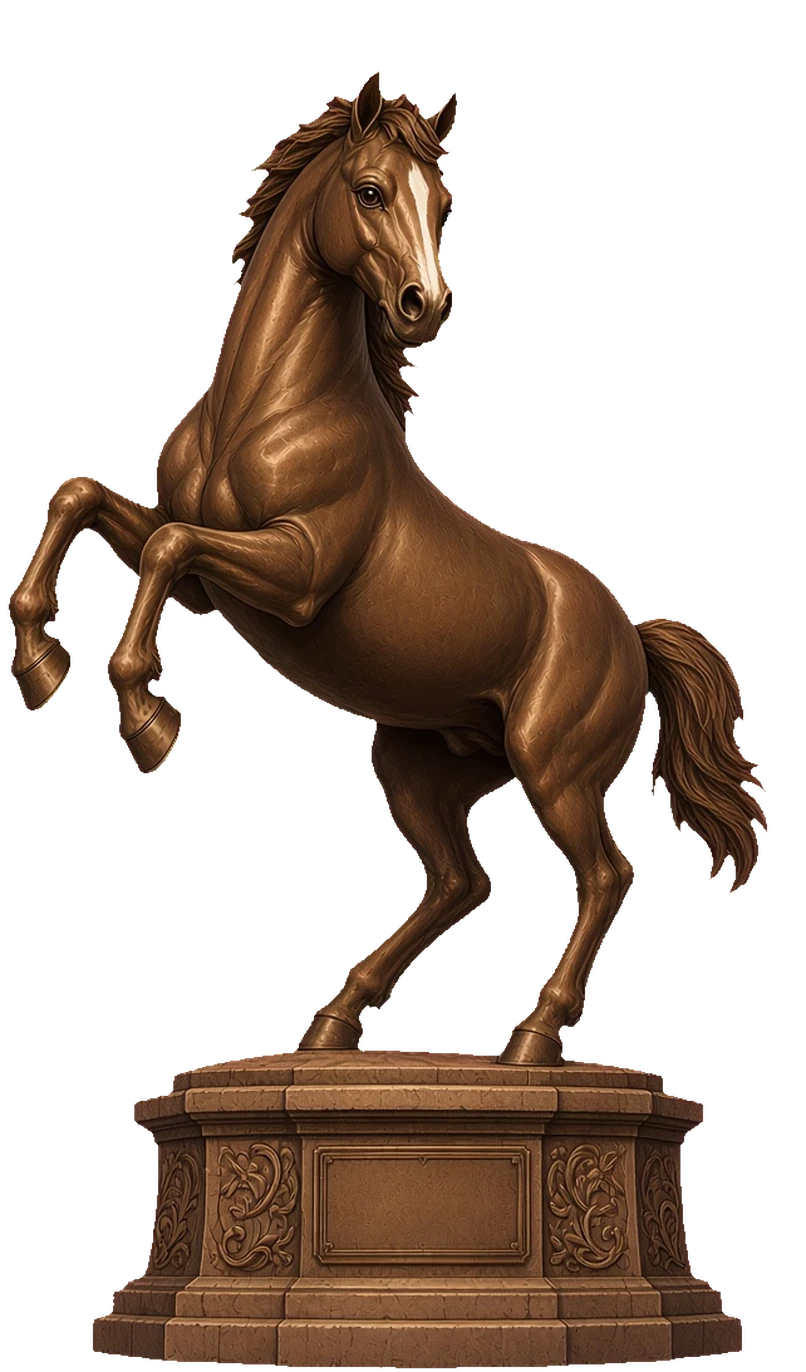
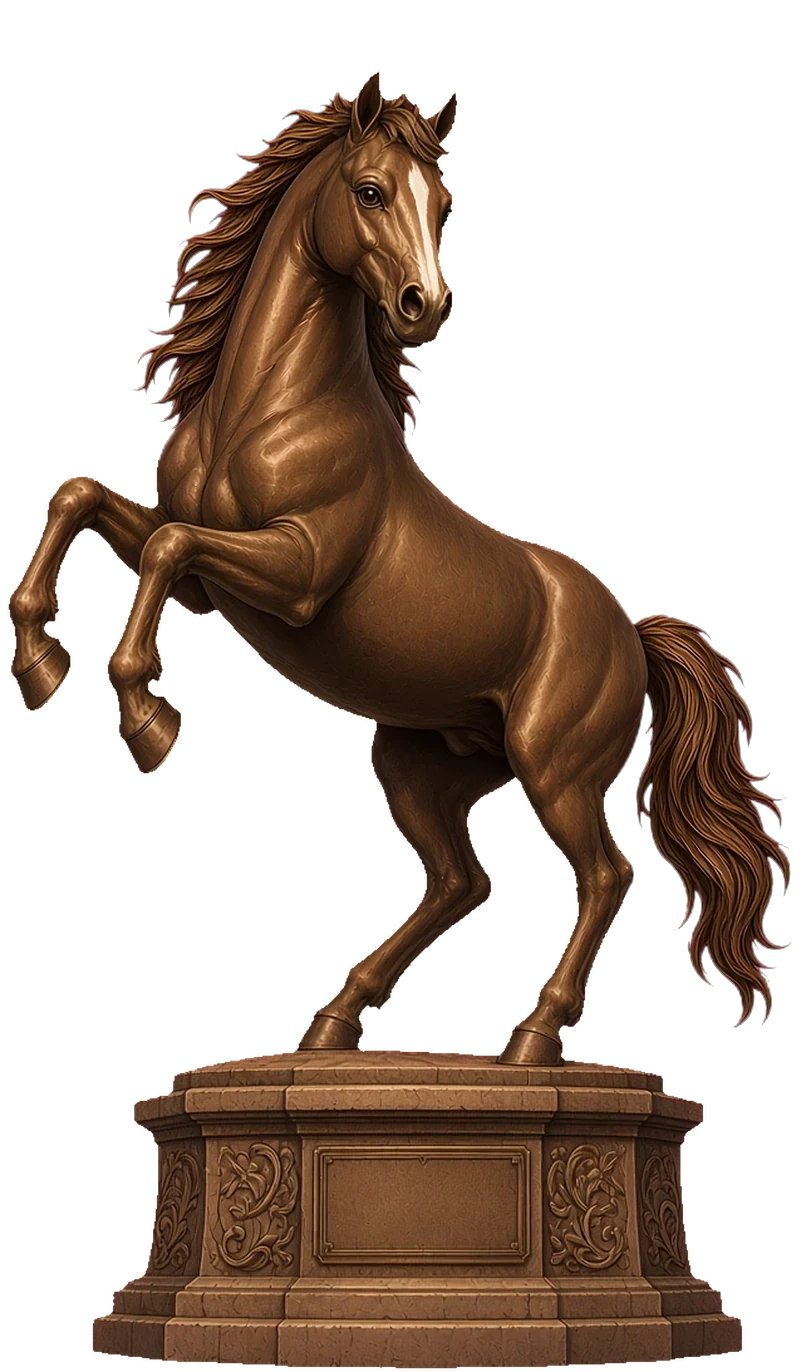
Fire Horse Plaza: longer, natural flowing mane and tail on Rowdy statue (all states)

diff --git a/fire-horse-plaza/index.html b/fire-horse-plaza/index.html
@@ -32,9 +32,9 @@
         <p class="lede">The heart of Rowdyland. Where Rowdy burns and rises in gold.</p>
         <button type="button" class="statue" id="statue" aria-label="Start the fire ceremony" aria-pressed="false">
           <span class="stack">
-            <img id="img-stone" src="art/hero-statue.webp?v=rowdy2" alt="Rowdy, a giant bronze horse statue on a stone pedestal" width="806" height="1372">
-            <img id="img-fire" src="art/hero-fire.webp?v=rowdy2" alt="" aria-hidden="true" width="806" height="1372">
-            <img id="img-gold" src="art/hero-gold.webp?v=redmane1" alt="" aria-hidden="true" width="806" height="1372">
+            <img id="img-stone" src="art/hero-statue.webp?v=mane1" alt="Rowdy, a giant bronze horse statue on a stone pedestal" width="806" height="1372">
+            <img id="img-fire" src="art/hero-fire.webp?v=mane1" alt="" aria-hidden="true" width="806" height="1372">
+            <img id="img-gold" src="art/hero-gold.webp?v=mane1" alt="" aria-hidden="true" width="806" height="1372">
           </span>
           <span class="pp-bubble" aria-hidden="true">Light the fire &#128293;</span>
         </button>
@@ -49,12 +49,12 @@
 
       <section class="panel feature right" id="when" data-time="night">
         <div class="card"><span class="tag n">Final night</span><h2>After the Sun Sets</h2><p>When the sky goes dark and the main stage goes quiet, everyone turns to the plaza.</p></div>
-        <div class="art" data-speed="-0.08"><img src="art/statue.webp?v=rowdy2" alt="Rowdy, a giant bronze horse statue rearing on a carved stone pedestal"></div>
+        <div class="art" data-speed="-0.08"><img src="art/statue.webp?v=mane1" alt="Rowdy, a giant bronze horse statue rearing on a carved stone pedestal"></div>
       </section>
 
       <section class="panel feature left" id="ceremony" data-time="night">
         <div class="card"><span class="tag n">Final night</span><h2>The Fire Ceremony</h2><p>Throw what you are done carrying into the fire and walk out new. Rowdy comes out gold, and so do we.</p></div>
-        <div class="art" data-speed="-0.08"><img src="art/fire.webp?v=rowdy2" alt="The bronze horse statue Rowdy engulfed in flames rising into the sky"></div>
+        <div class="art" data-speed="-0.08"><img src="art/fire.webp?v=mane1" alt="The bronze horse statue Rowdy engulfed in flames rising into the sky"></div>
       </section>
 
       <section class="panel feature right" id="anthem">
@@ -64,11 +64,11 @@
 
       <section class="panel feature left" id="gold" data-time="night">
         <div class="card"><span class="tag n">The finale</span><h2>Revealed in Gold</h2><p>The fire shoots into the sky. When it burns out, Rowdy stands there shining in gold.</p></div>
-        <div class="art" data-speed="-0.08"><img src="art/gold.webp?v=redmane1" alt="Rowdy the horse statue gleaming in gold on its stone pedestal"></div>
+        <div class="art" data-speed="-0.08"><img src="art/gold.webp?v=mane1" alt="Rowdy the horse statue gleaming in gold on its stone pedestal"></div>
       </section>
 
       <section class="panel cta" id="tickets">
-        <img class="cta-horse" src="art/gold.webp?v=redmane1" alt="" aria-hidden="true">
+        <img class="cta-horse" src="art/gold.webp?v=mane1" alt="" aria-hidden="true">
         <h2>Be there when Rowdy burns</h2>
         <a class="big-cta" href="#reserve" data-reserve>Get your tickets now!</a>
         <p class="fine">Ticket sales open soon. Save your spot and we'll let you know first.</p>
